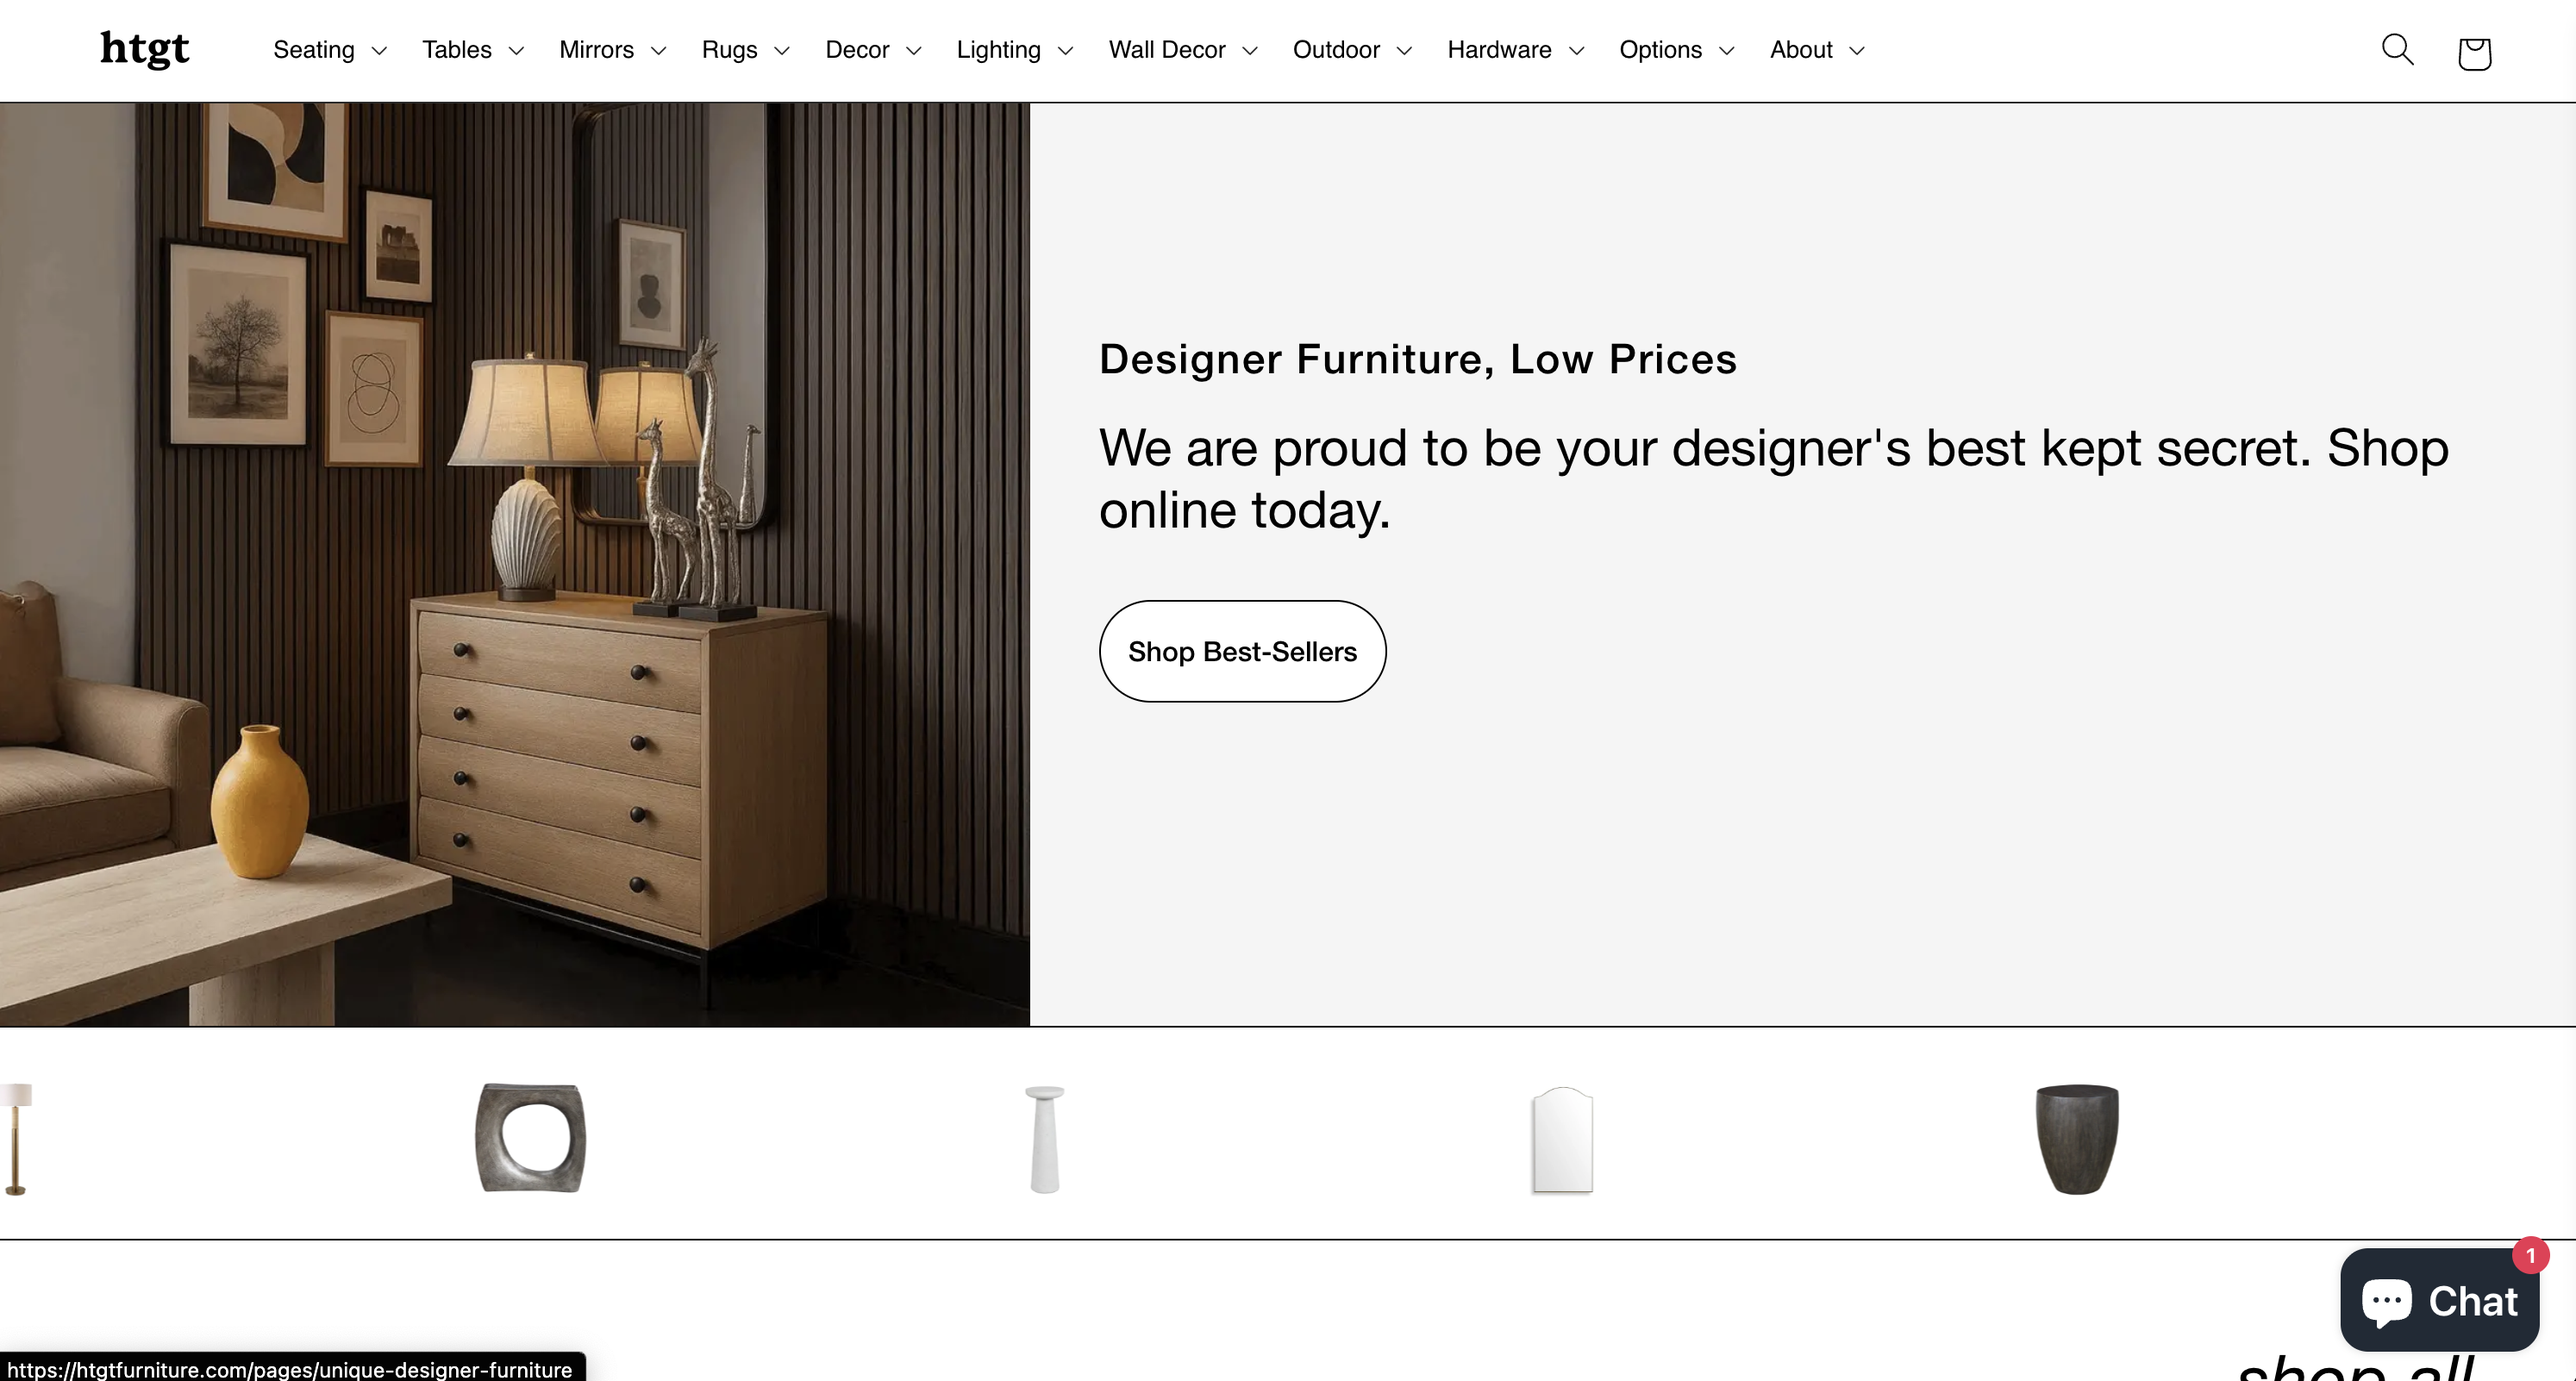
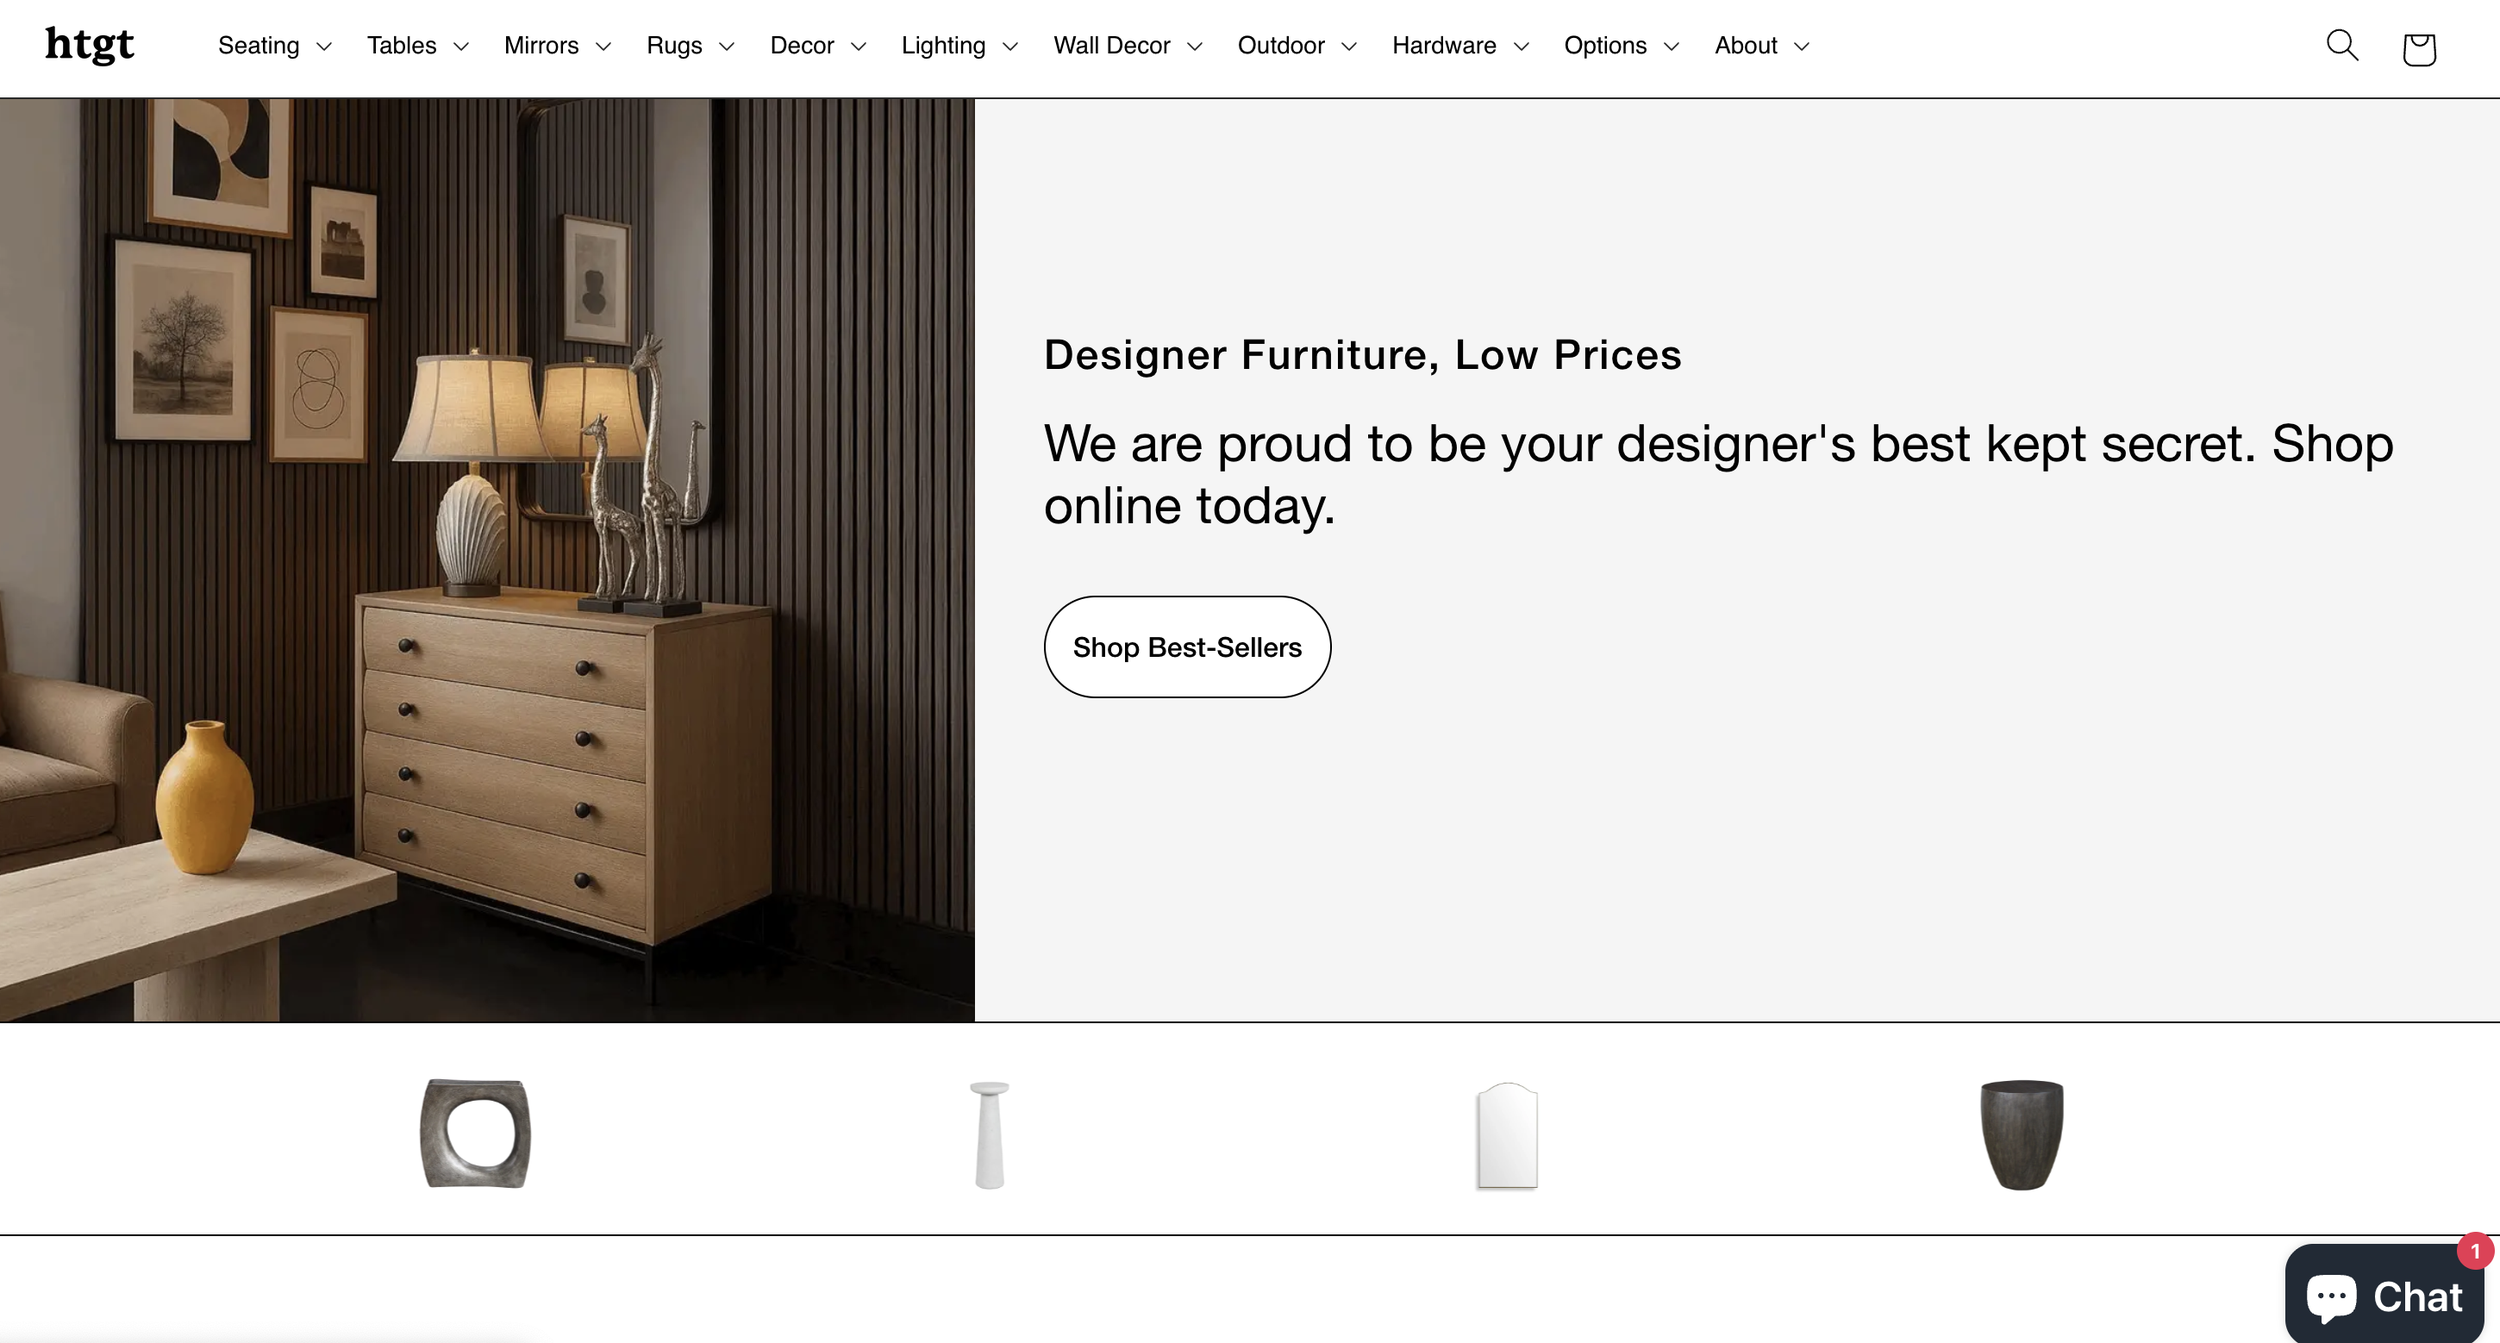
more

diff --git a/css/new.css b/css/new.css
@@ -24,6 +24,15 @@ body {
     line-height: 1;
 }
 
+.set {
+    height: 100%;
+    width: 100%;
+}
+
+.set img {
+    object-fit: cover;
+}
+
 .set iframe {
     width:  80%;
     position: fixed;    
